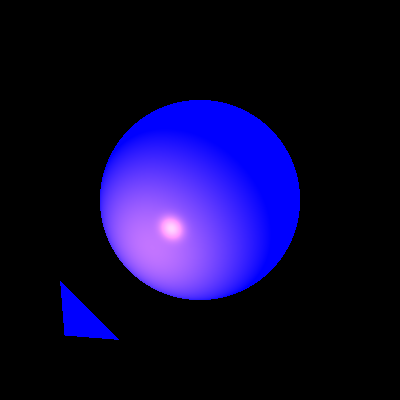
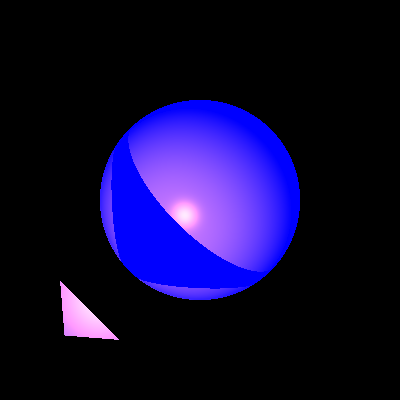
t6

Changed region(s): [[0.27, 0.27, 0.72, 0.72], [0.15, 0.69, 0.3, 0.87]]

diff --git a/Tests/elements/ShadowTests.java b/Tests/elements/ShadowTests.java
@@ -21,20 +21,20 @@ public class ShadowTests {
     /**
      * Produce a picture of a sphere and triangle with point light and shade
      */
+
     @Test
     public void sphereTriangleInitial1() {
         scene.geometries.add( //
                 new Sphere(60, new Point3D(0, 0, -200)) //
                         .setEmission(new Color(java.awt.Color.BLUE)) //
                         .setMaterial(new Material().setKd(0.5).setKs(0.5).setShininess(30)), //
-                new Triangle(new Point3D(-70, -40, 0), new Point3D(-40, -70, 0), new Point3D(-68, -68, -4)) //
+                new Triangle(new Point3D(-62, -32, 0), new Point3D(-32, -62, 0), new Point3D(-60, -60, -4)) //
                         .setEmission(new Color(java.awt.Color.BLUE)) //
                         .setMaterial(new Material().setKd(0.5).setKs(0.5).setShininess(30)) //
         );
         scene.lights.add( //
                 new SpotLight(new Color(400, 240, 0), new Point3D(-100, -100, 200), new Vector(1, 1, -3)) //
                         .setKl(1E-5).setKq(1.5E-7));
-
 
         Render render = new Render(). //
                 setImageWriter(new ImageWriter("shadowSphereTriangleInitial1", 400, 400)) //
@@ -44,35 +44,14 @@ public class ShadowTests {
         render.writeToImage();
     }
 
+
     @Test
     public void sphereTriangleInitial2() {
         scene.geometries.add( //
                 new Sphere(60, new Point3D(0, 0, -200)) //
                         .setEmission(new Color(java.awt.Color.BLUE)) //
                         .setMaterial(new Material().setKd(0.5).setKs(0.5).setShininess(30)), //
-                new Triangle(new Point3D(-70, -40, 0), new Point3D(-40, -70, 0), new Point3D(-68, -68, -4)) //
-                        .setEmission(new Color(java.awt.Color.BLUE)) //
-                        .setMaterial(new Material().setKd(0.5).setKs(0.5).setShininess(30)) //
-        );
-        scene.lights.add( //
-                new SpotLight(new Color(400, 240, 0), new Point3D(-100, -70, 130), new Vector(1, 1, -3)) //
-                        .setKl(1E-5).setKq(1.5E-7));
-
-        Render render = new Render(). //
-                setImageWriter(new ImageWriter("shadowSphereTriangleInitial2", 400, 400)) //
-                .setCamera(camera) //
-                .setRayTracer(new BasicRayTracer(scene));
-        render.renderImage();
-        render.writeToImage();
-    }
-
-    @Test
-    public void sphereTriangleInitial3() {
-        scene.geometries.add( //
-                new Sphere(60, new Point3D(0, 0, -200)) //
-                        .setEmission(new Color(java.awt.Color.BLUE)) //
-                        .setMaterial(new Material().setKd(0.5).setKs(0.5).setShininess(30)), //
-                new Triangle(new Point3D(-76, -45, 45), new Point3D(-46, -75, 45), new Point3D(-74, -73, 41)) //
+                new Triangle(new Point3D(-50, -20, 4), new Point3D(-20, -50, 4), new Point3D(-48, -48, 0)) //
                         .setEmission(new Color(java.awt.Color.BLUE)) //
                         .setMaterial(new Material().setKd(0.5).setKs(0.5).setShininess(30)) //
         );
@@ -81,7 +60,7 @@ public class ShadowTests {
                         .setKl(1E-5).setKq(1.5E-7));
 
         Render render = new Render(). //
-                setImageWriter(new ImageWriter("shadowSphereTriangleInitial3", 400, 400)) //
+                setImageWriter(new ImageWriter("shadowSphereTriangleInitial2", 400, 400)) //
                 .setCamera(camera) //
                 .setRayTracer(new BasicRayTracer(scene));
         render.renderImage();
@@ -99,7 +78,7 @@ public class ShadowTests {
                         .setMaterial(new Material().setKd(0.5).setKs(0.5).setShininess(30)) //
         );
         scene.lights.add( //
-                new SpotLight(new Color(400, 240, 0), new Point3D(-74, -74, -65), new Vector(1, 1, -3)) //
+                new SpotLight(new Color(400, 240, 0), new Point3D(-77, -77, 75), new Vector(1, 1, -3)) //
                         .setKl(1E-5).setKq(1.5E-7));
 
         Render render = new Render(). //
@@ -110,6 +89,28 @@ public class ShadowTests {
         render.writeToImage();
     }
 
+    @Test
+    public void sphereTriangleInitial3() {
+        scene.geometries.add( //
+                new Sphere(60, new Point3D(0, 0, -200)) //
+                        .setEmission(new Color(java.awt.Color.BLUE)) //
+                        .setMaterial(new Material().setKd(0.5).setKs(0.5).setShininess(30)), //
+                new Triangle(new Point3D(-70, -40, 0), new Point3D(-40, -70, 0), new Point3D(-68, -68, -4)) //
+                        .setEmission(new Color(java.awt.Color.BLUE)) //
+                        .setMaterial(new Material().setKd(0.5).setKs(0.5).setShininess(30)) //
+        );
+        scene.lights.add( //
+                new SpotLight(new Color(400, 240, 0), new Point3D(-100, -100, 200), new Vector(1, 1, -3)) //
+                        .setKl(1E-5).setKq(1.5E-7));
+
+
+        Render render = new Render(). //
+                setImageWriter(new ImageWriter("shadowSphereTriangleInitial3", 400, 400)) //
+                .setCamera(camera) //
+                .setRayTracer(new BasicRayTracer(scene));
+        render.renderImage();
+        render.writeToImage();
+    }
 
 
     @Test
@@ -118,12 +119,12 @@ public class ShadowTests {
                 new Sphere(60, new Point3D(0, 0, -200)) //
                         .setEmission(new Color(java.awt.Color.BLUE)) //
                         .setMaterial(new Material().setKd(0.5).setKs(0.5).setShininess(30)), //
-                new Triangle(new Point3D(-50, -20, 4), new Point3D(-20, -50, 4), new Point3D(-48, -48, 0)) //
+                new Triangle(new Point3D(-70, -40, 0), new Point3D(-40, -70, 0), new Point3D(-68, -68, -4)) //
                         .setEmission(new Color(java.awt.Color.BLUE)) //
                         .setMaterial(new Material().setKd(0.5).setKs(0.5).setShininess(30)) //
         );
         scene.lights.add( //
-                new SpotLight(new Color(400, 240, 0), new Point3D(-100, -100, 200), new Vector(1, 1, -3)) //
+                new SpotLight(new Color(400, 240, 0), new Point3D(-85, -85, 110), new Vector(1, 1, -3)) //
                         .setKl(1E-5).setKq(1.5E-7));
 
         Render render = new Render(). //
